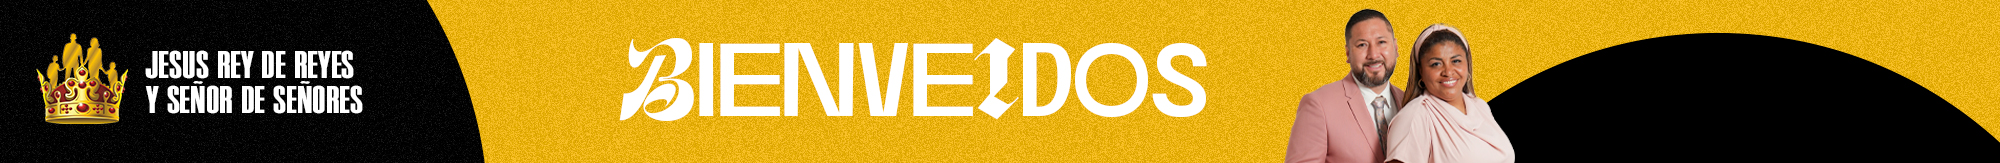
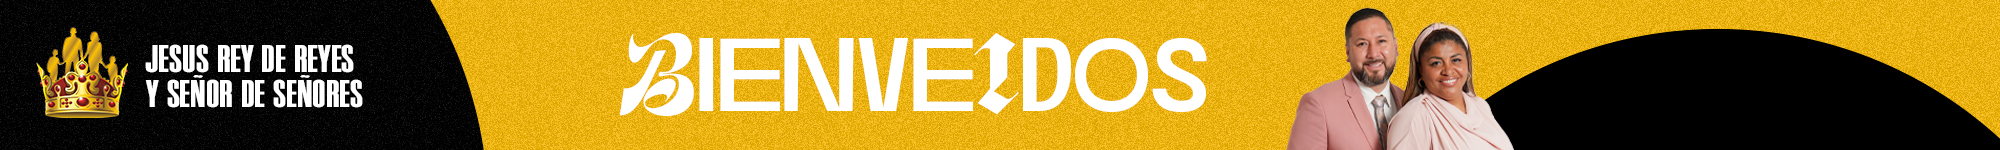
PORTADA

diff --git a/resources/views/components/jrrss/header-area.blade.php b/resources/views/components/jrrss/header-area.blade.php
@@ -35,7 +35,7 @@
                 </div>
             </div>
             <div class="header-container">
-                <img src="{{ asset('themes/jrrss/assets/img/cabecera-WEB.jpg') }}" alt="">
+                <img style="height: 150px;" src="{{ asset('themes/jrrss/assets/img/cabecera-WEB.jpg') }}" alt="">
             </div>
             <div class="header-nav-bar header-nav-bar-top-border bg-light">
                 <div class="header-container ">
@@ -49,47 +49,47 @@
                                                 <ul class="nav nav-pills flex-column flex-lg-row" id="mainNav">
                                                     <li class="dropdown">
                                                         <a class="dropdown-item active" href="{{ route('cms_principal') }}">
-                                                            Home
+                                                            HOME
                                                         </a>
                                                     </li>
                                                     <li class="dropdown">
                                                         <a class="dropdown-item" href="">
-                                                            ¿Quienes Somos?
+                                                            ¿QUIENES SOMOS?
                                                         </a>
                                                     </li>
                                                     <li class="dropdown">
                                                         <a class="dropdown-item" href="{{ route('web_sedes') }}">
-                                                            Sedes
+                                                            SEDES
                                                         </a>
                                                     </li>
                                                     <li class="dropdown">
                                                         <a class="dropdown-item" href="{{ route('web_cobertura') }}">
-                                                            Cobertura
+                                                            COBERTURA
                                                         </a>
                                                     </li>
                                                     <li class="dropdown">
                                                         <a class="dropdown-item" href="{{ route('web_eventos') }}">
-                                                            Eventos
+                                                            EVENTOS
                                                         </a>
                                                     </li>
                                                     <li class="dropdown">
                                                         <a class="dropdown-item" href="">
-                                                            Escuela Sobrenatural
+                                                            ESCUELA SOBRENATURAL
                                                         </a>
                                                     </li>
                                                     <li class="dropdown">
                                                         <a class="dropdown-item" href="">
-                                                            Remanente
+                                                            RMNT
                                                         </a>
                                                     </li>
                                                     <li class="dropdown">
                                                         <a class="dropdown-item" href="">
-                                                            Kids
+                                                            KIDS
                                                         </a>
                                                     </li>
                                                     <li class="dropdown">
                                                         <a class="dropdown-item" href="{{ route('web_contacto') }}">
-                                                            Contacto
+                                                            CONTACTO
                                                         </a>
                                                     </li>
                                                 </ul>

diff --git a/resources/views/jrrss/index.blade.php b/resources/views/jrrss/index.blade.php
@@ -17,7 +17,7 @@
                     <div class="owl-stage">
 
                         <!-- Carousel Slide 1 -->
-                        <div class="owl-item position-relative overlay overlay-show overlay-op-3" style="background-image: url(themes/jrrss/assets/img/slider/slider_01.jpg); background-size: cover; background-position: center;">
+                        <div class="owl-item position-relative overlay overlay-show overlay-op-3" style="background-image: url(themes/jrrss/assets/img/slider/SLIDE.jpg); background-size: cover; background-position: center;">
                             <!--
                             <div class="container position-relative z-index-3 h-100">
                                 <div class="row align-items-center h-100">
